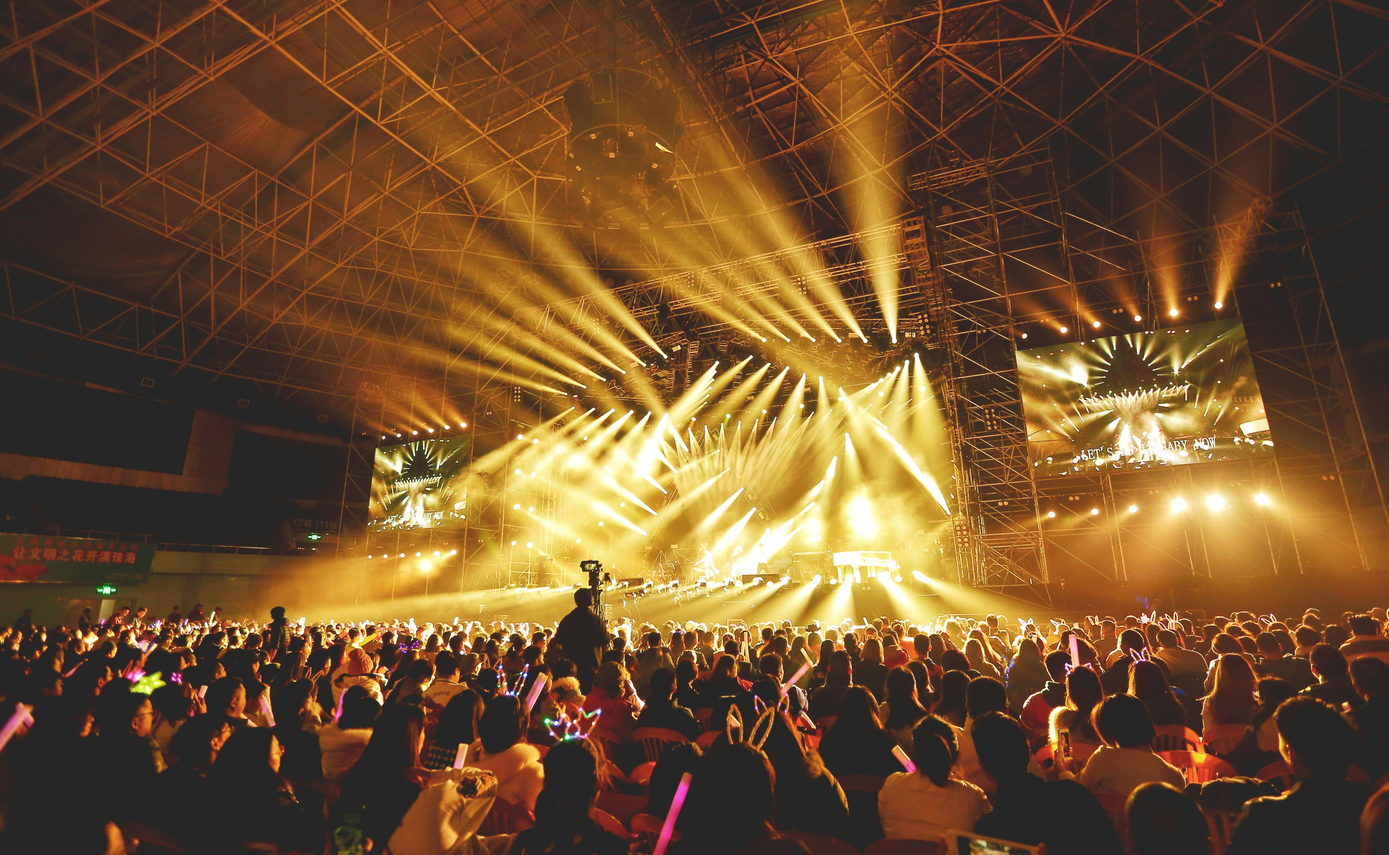
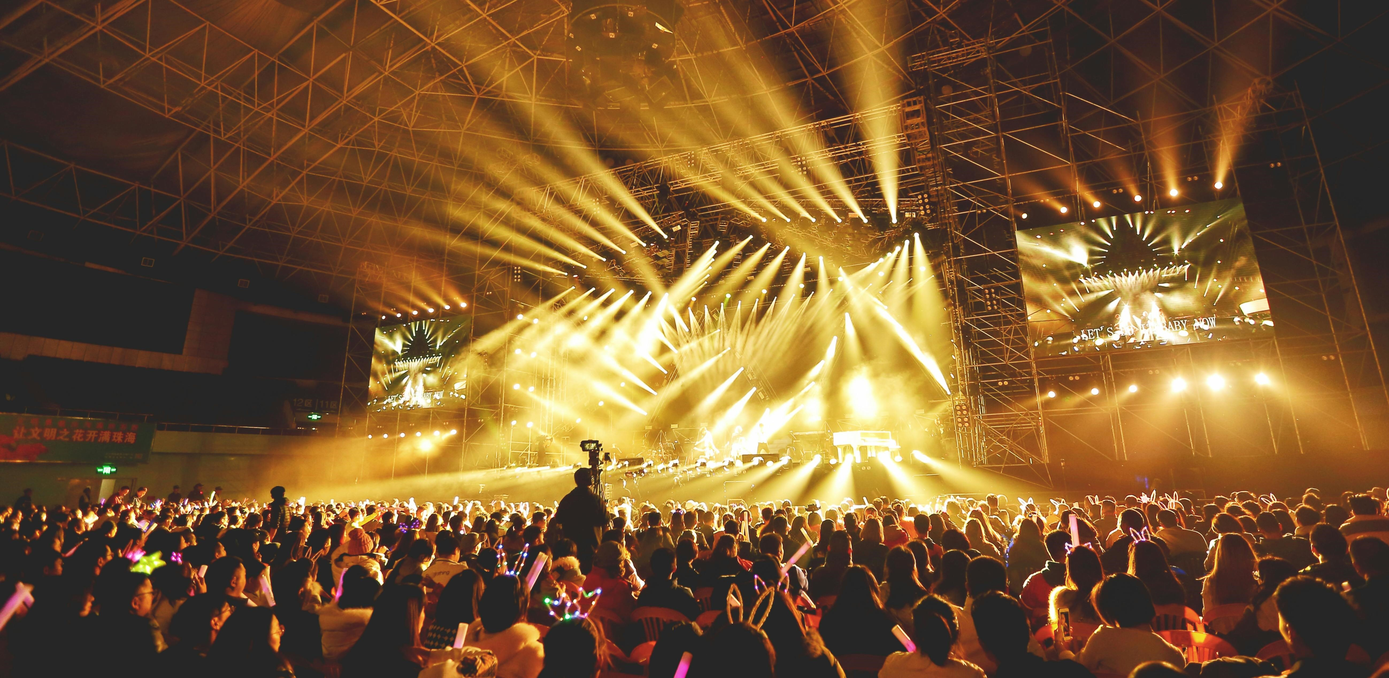
added event images

diff --git a/events.html b/events.html
@@ -41,13 +41,13 @@
           </div>
           <div class="carousel-inner">
             <div class="carousel-item active c-item">
-              <img src="https://picsum.photos/1500/550" class="d-block c-img w-100" alt="...">
+              <img src="images/event1.jpg" class="d-block c-img w-100" alt="...">
             </div>
             <div class="carousel-item c-item">
-              <img src="https://picsum.photos/1500/550" class="d-block c-img w-100" alt="...">
+              <img src="images/event2.jpg" class="d-block c-img w-100" alt="...">
             </div>
             <div class="carousel-item c-item">
-              <img src="https://picsum.photos/1500/550" class="d-block c-img w-100" alt="...">
+              <img src="images/event3.jpg" class="d-block c-img w-100" alt="...">
             </div>
           </div>
           <button class="carousel-control-prev" type="button" data-bs-target="#carousel-slide" data-bs-slide="prev">

diff --git a/css/events-styles.css b/css/events-styles.css
@@ -8,6 +8,10 @@
     margin: 0% 10%; 
 }
 
+.c-img {
+    height: 30em;
+}
+
 .event-card {
     background-color: #f9f9f9;
     width: 60vw;
